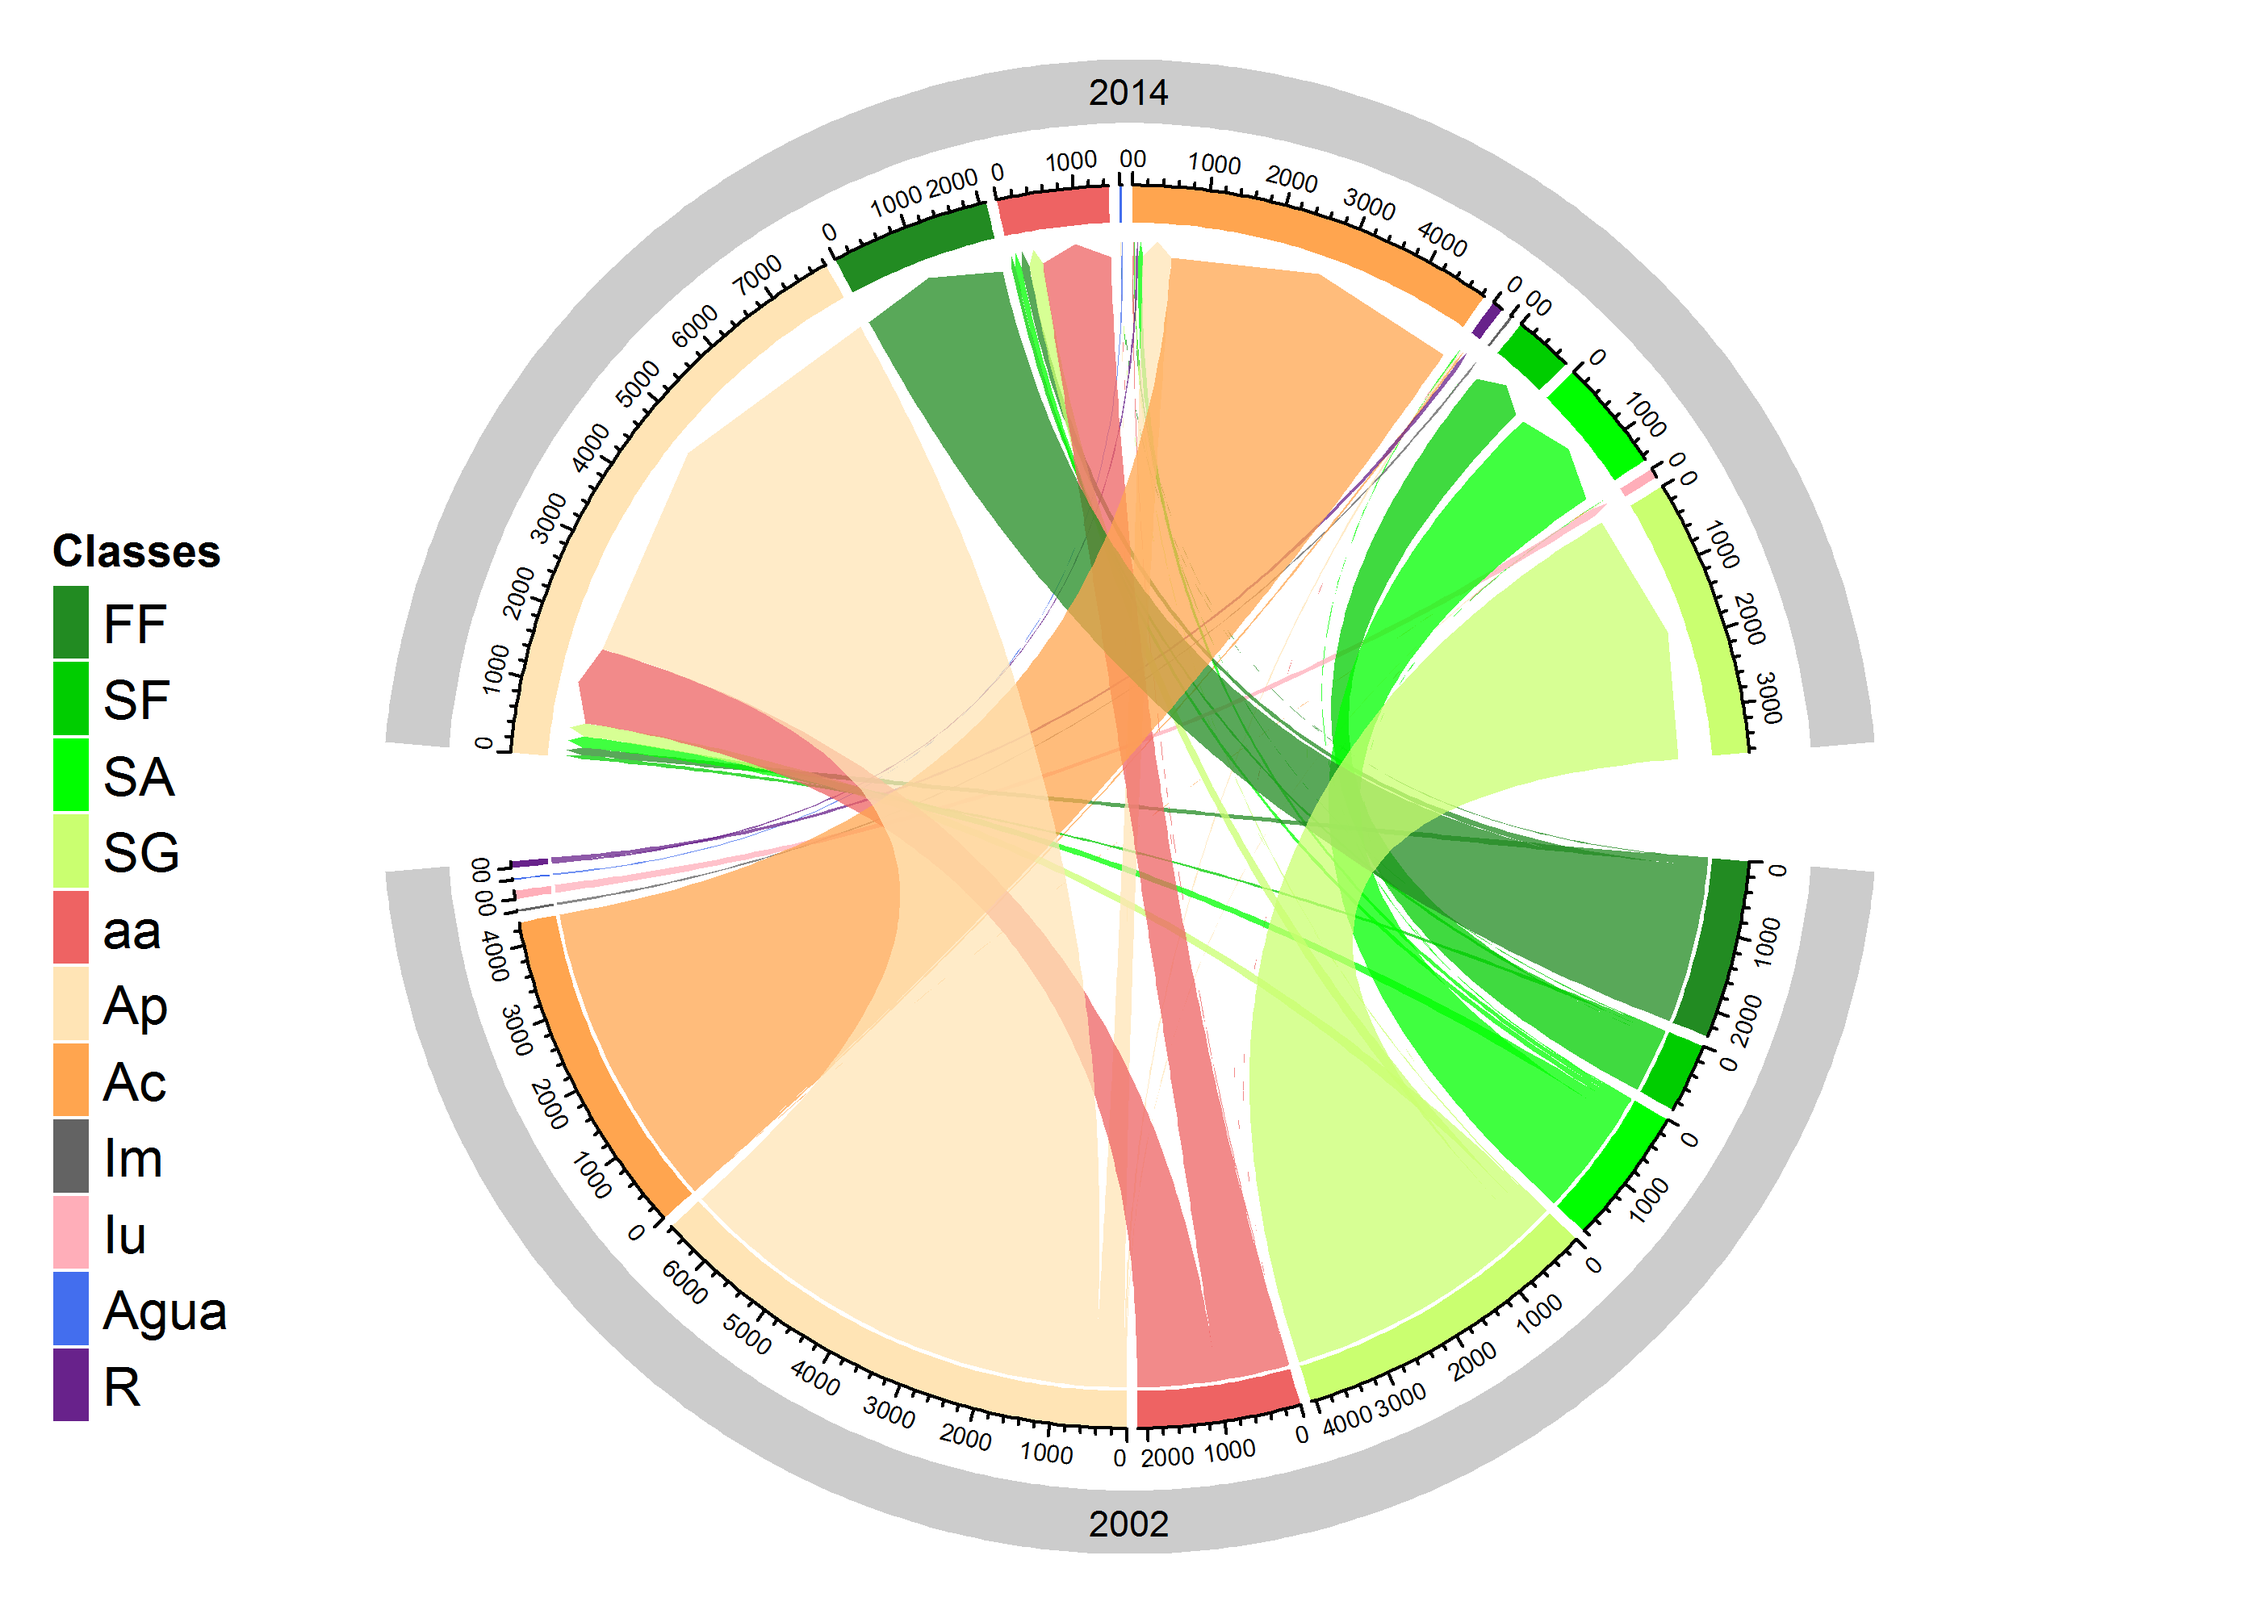
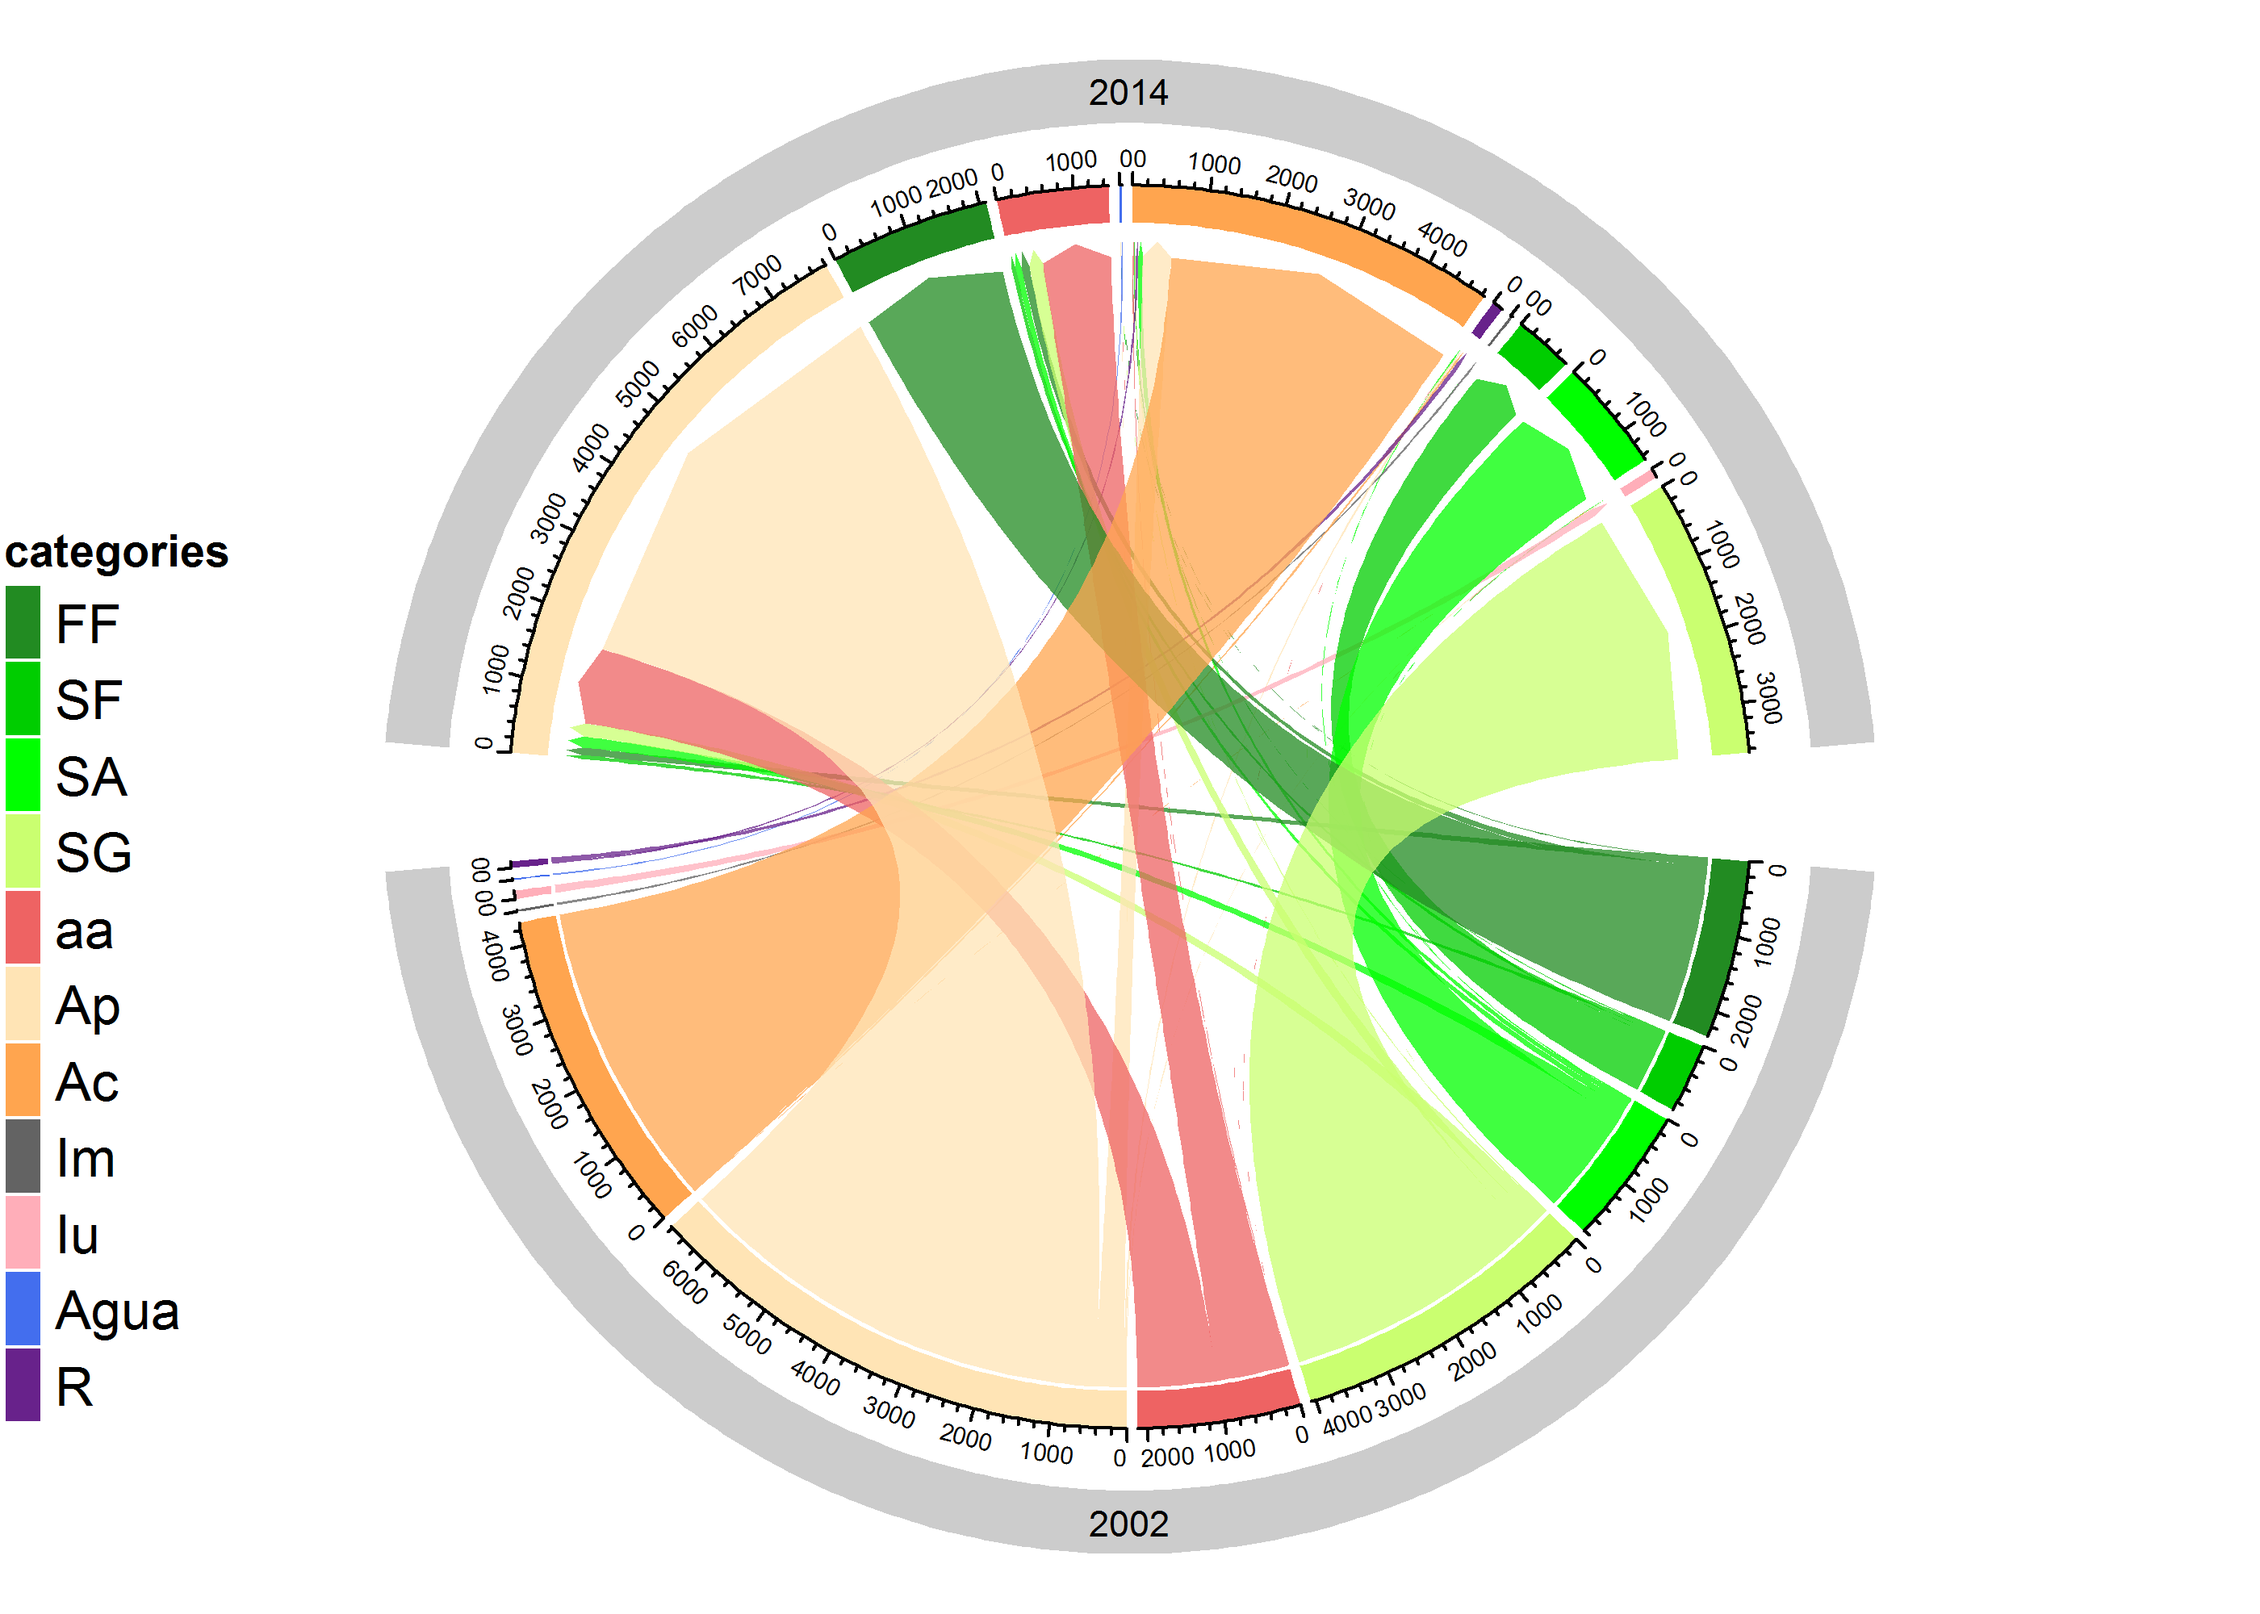
documentation 98%

Changed region(s): [[0.0, 0.31, 0.0932, 0.899]]

diff --git a/README.md b/README.md
@@ -91,7 +91,7 @@ important losses.
 
 ``` r
 testSL <- intensityAnalysis(dataset = SL_2002_2014,
-                            class_n = "Ap", class_m = "SG")
+                            category_n = "Ap", category_m = "SG")
 
 # it returns a list with 6 objects
 names(testSL)
@@ -174,7 +174,7 @@ method.
 plot(testSL$category_lvlGain,
      labels = c(leftlabel = bquote("Gain Area (" ~km^2~ ")"),
                 rightlabel = "Intensity Gain (%)"),
-     marginplot = c(.3, .3), labs = c("Classes", "Uniform intensity"), 
+     marginplot = c(.3, .3), labs = c("Categories", "Uniform intensity"), 
      leg_curv = c(x = 1, y = .5),
      fontsize_ui = 8)
 ```
@@ -195,13 +195,13 @@ Gain area outcome - Category level
 
 OpenLand provides a bench of visualization tools of LUCC metrics.
 One-step transitions can be balanced by net and gross changes of all
-classes through a combined bar chart. Transitions between LUC classes
-can be detailed by a circular chord chart, based on the Circlize package
-(Gu et al. 2014). An implementation of Sankey diagram based on the
-networkD3 package (Allaire et al. 2017) allow the representation of one-
-and multistep LUCC between classes. Areal development of all LUC classes
-throughout the observation period can be visualized by a grouped bar
-chart.
+categories through a combined bar chart. Transitions between LUC
+categories can be detailed by a circular chord chart, based on the
+Circlize package (Gu et al. 2014). An implementation of Sankey diagram
+based on the networkD3 package (Allaire et al. 2017) allow the
+representation of one- and multistep LUCC between categories. Areal
+development of all LUC categories throughout the observation period can
+be visualized by a grouped bar chart.
 
 ##### Net and Gross gain and loss
 
